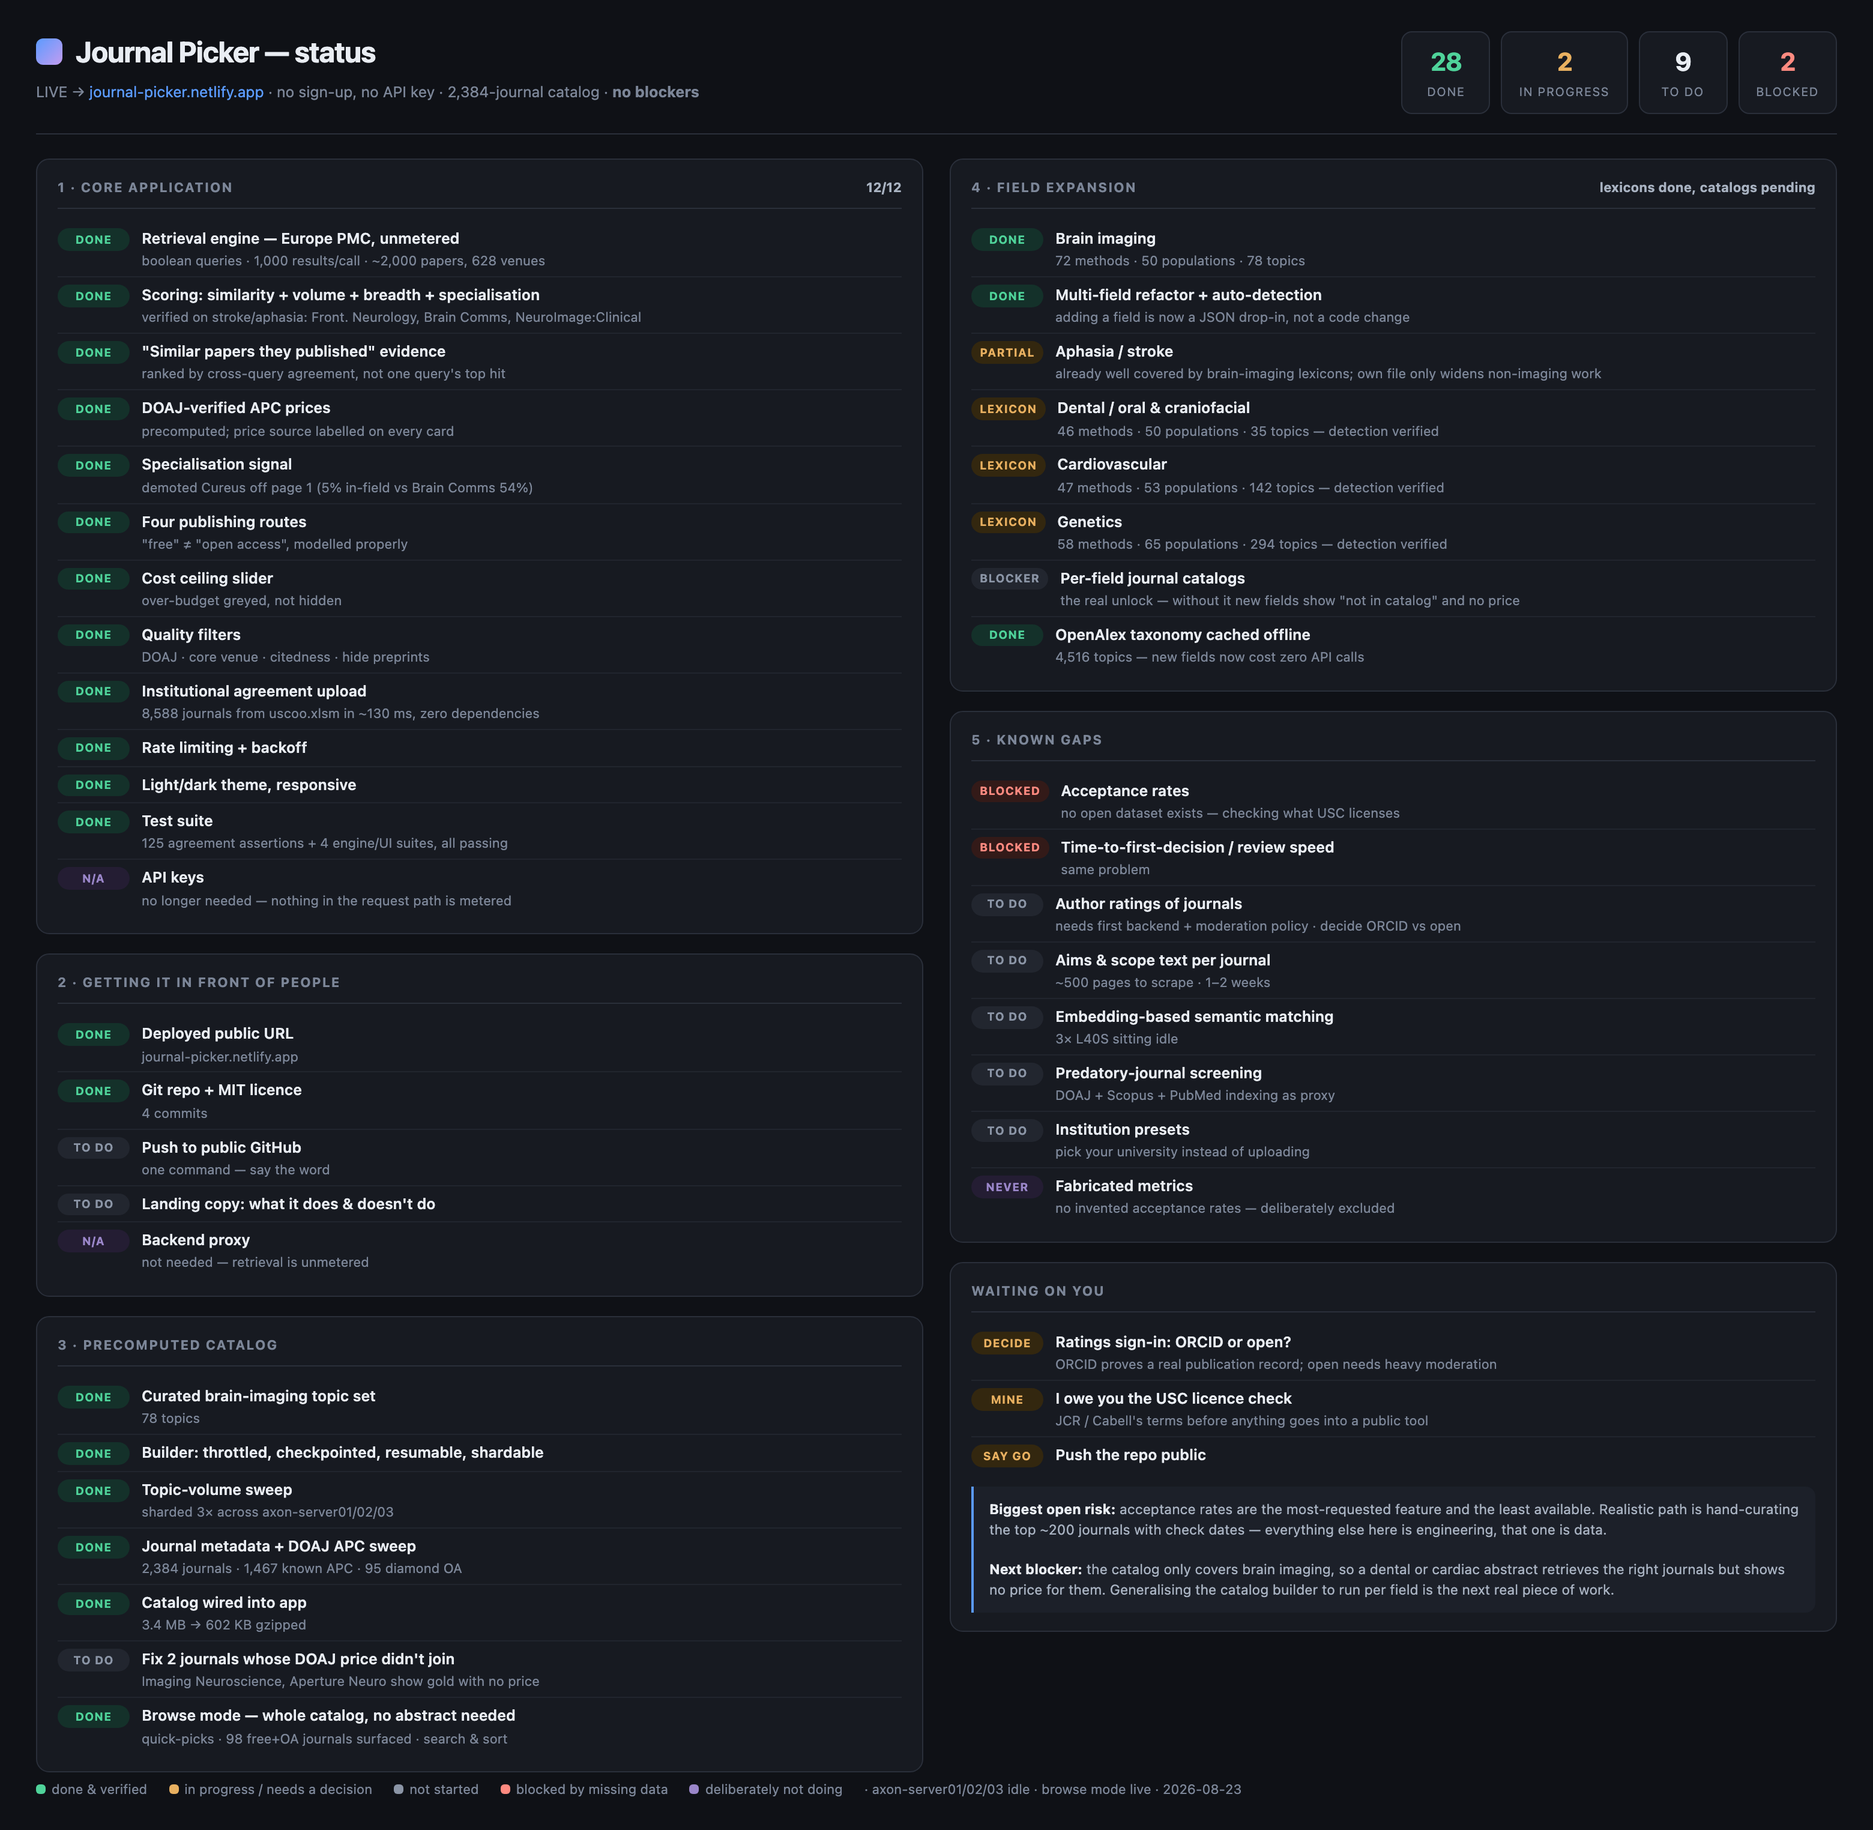
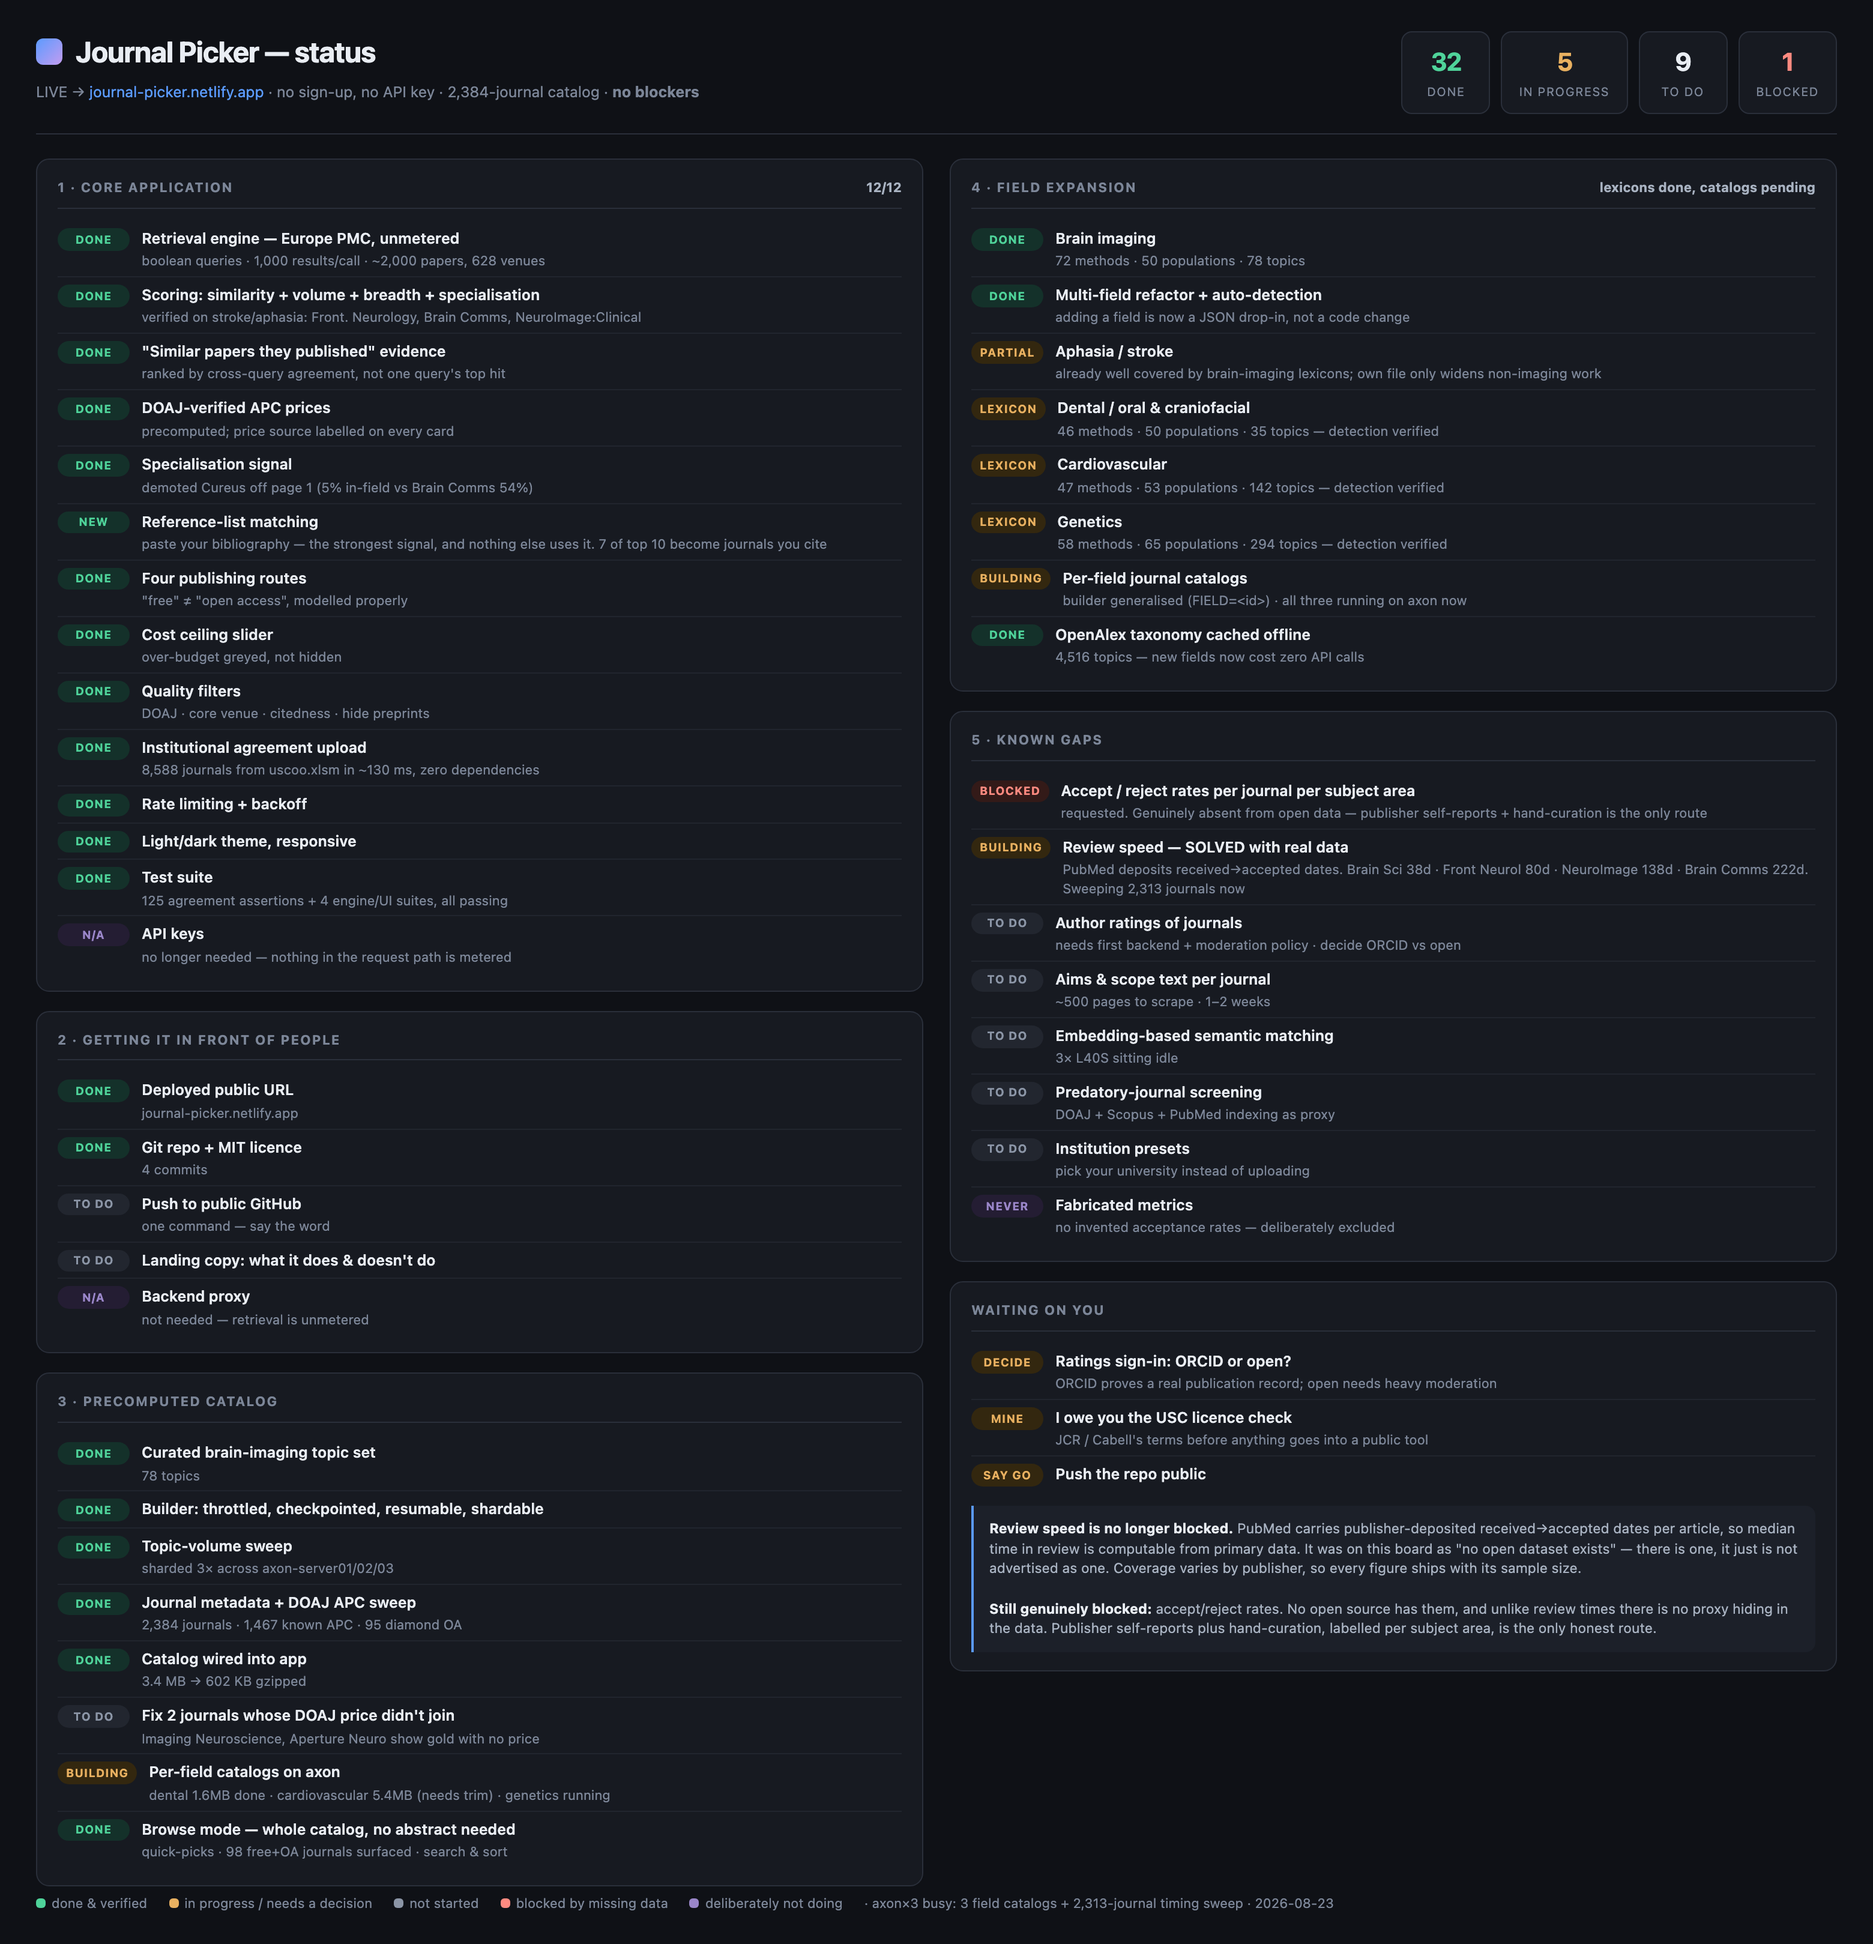
Refresh status grid

diff --git a/status/grid.html b/status/grid.html
@@ -44,10 +44,10 @@ h1{font-size:24px;letter-spacing:-.02em;display:flex;align-items:center;gap:11px
   <div class="sub">LIVE → <a>journal-picker.netlify.app</a> · no sign-up, no API key · 2,384-journal catalog · <b>no blockers</b></div>
  </div>
  <div class="tally">
-  <div class="t ok"><b>28</b><span>done</span></div>
-  <div class="t wip"><b>2</b><span>in progress</span></div>
+  <div class="t ok"><b>32</b><span>done</span></div>
+  <div class="t wip"><b>5</b><span>in progress</span></div>
   <div class="t"><b>9</b><span>to do</span></div>
-  <div class="t blk"><b>2</b><span>blocked</span></div>
+  <div class="t blk"><b>1</b><span>blocked</span></div>
  </div>
 </div>
 
@@ -59,6 +59,7 @@ h1{font-size:24px;letter-spacing:-.02em;display:flex;align-items:center;gap:11px
 <div class="row"><span class="pill p-ok">done</span><div class="txt"><b>"Similar papers they published" evidence</b><i>ranked by cross-query agreement, not one query's top hit</i></div></div>
 <div class="row"><span class="pill p-ok">done</span><div class="txt"><b>DOAJ-verified APC prices</b><i>precomputed; price source labelled on every card</i></div></div>
 <div class="row"><span class="pill p-ok">done</span><div class="txt"><b>Specialisation signal</b><i>demoted Cureus off page 1 (5% in-field vs Brain Comms 54%)</i></div></div>
+<div class="row"><span class="pill p-ok">NEW</span><div class="txt"><b>Reference-list matching</b><i>paste your bibliography — the strongest signal, and nothing else uses it. 7 of top 10 become journals you cite</i></div></div>
 <div class="row"><span class="pill p-ok">done</span><div class="txt"><b>Four publishing routes</b><i>"free" ≠ "open access", modelled properly</i></div></div>
 <div class="row"><span class="pill p-ok">done</span><div class="txt"><b>Cost ceiling slider</b><i>over-budget greyed, not hidden</i></div></div>
 <div class="row"><span class="pill p-ok">done</span><div class="txt"><b>Quality filters</b><i>DOAJ · core venue · citedness · hide preprints</i></div></div>
@@ -84,6 +85,7 @@ h1{font-size:24px;letter-spacing:-.02em;display:flex;align-items:center;gap:11px
 <div class="row"><span class="pill p-ok">done</span><div class="txt"><b>Journal metadata + DOAJ APC sweep</b><i>2,384 journals · 1,467 known APC · 95 diamond OA</i></div></div>
 <div class="row"><span class="pill p-ok">done</span><div class="txt"><b>Catalog wired into app</b><i>3.4 MB → 602 KB gzipped</i></div></div>
 <div class="row"><span class="pill p-todo">to do</span><div class="txt"><b>Fix 2 journals whose DOAJ price didn't join</b><i>Imaging Neuroscience, Aperture Neuro show gold with no price</i></div></div>
+<div class="row"><span class="pill p-wip">building</span><div class="txt"><b>Per-field catalogs on axon</b><i>dental 1.6MB done · cardiovascular 5.4MB (needs trim) · genetics running</i></div></div>
 <div class="row"><span class="pill p-ok">done</span><div class="txt"><b>Browse mode — whole catalog, no abstract needed</b><i>quick-picks · 98 free+OA journals surfaced · search &amp; sort</i></div></div>
 </div>
 
@@ -94,13 +96,13 @@ h1{font-size:24px;letter-spacing:-.02em;display:flex;align-items:center;gap:11px
 <div class="row"><span class="pill p-wip">lexicon</span><div class="txt"><b>Dental / oral &amp; craniofacial</b><i>46 methods · 50 populations · 35 topics — detection verified</i></div></div>
 <div class="row"><span class="pill p-wip">lexicon</span><div class="txt"><b>Cardiovascular</b><i>47 methods · 53 populations · 142 topics — detection verified</i></div></div>
 <div class="row"><span class="pill p-wip">lexicon</span><div class="txt"><b>Genetics</b><i>58 methods · 65 populations · 294 topics — detection verified</i></div></div>
-<div class="row"><span class="pill p-todo">blocker</span><div class="txt"><b>Per-field journal catalogs</b><i>the real unlock — without it new fields show "not in catalog" and no price</i></div></div>
+<div class="row"><span class="pill p-wip">building</span><div class="txt"><b>Per-field journal catalogs</b><i>builder generalised (FIELD=&lt;id&gt;) · all three running on axon now</i></div></div>
 <div class="row"><span class="pill p-ok">done</span><div class="txt"><b>OpenAlex taxonomy cached offline</b><i>4,516 topics — new fields now cost zero API calls</i></div></div>
 </div>
 
 <div class="sec"><h2>5 · Known gaps</h2>
-<div class="row"><span class="pill p-blk">blocked</span><div class="txt"><b>Acceptance rates</b><i>no open dataset exists — checking what USC licenses</i></div></div>
-<div class="row"><span class="pill p-blk">blocked</span><div class="txt"><b>Time-to-first-decision / review speed</b><i>same problem</i></div></div>
+<div class="row"><span class="pill p-blk">blocked</span><div class="txt"><b>Accept / reject rates per journal per subject area</b><i>requested. Genuinely absent from open data — publisher self-reports + hand-curation is the only route</i></div></div>
+<div class="row"><span class="pill p-wip">building</span><div class="txt"><b>Review speed — SOLVED with real data</b><i>PubMed deposits received→accepted dates. Brain Sci 38d · Front Neurol 80d · NeuroImage 138d · Brain Comms 222d. Sweeping 2,313 journals now</i></div></div>
 <div class="row"><span class="pill p-todo">to do</span><div class="txt"><b>Author ratings of journals</b><i>needs first backend + moderation policy · decide ORCID vs open</i></div></div>
 <div class="row"><span class="pill p-todo">to do</span><div class="txt"><b>Aims &amp; scope text per journal</b><i>~500 pages to scrape · 1–2 weeks</i></div></div>
 <div class="row"><span class="pill p-todo">to do</span><div class="txt"><b>Embedding-based semantic matching</b><i>3× L40S sitting idle</i></div></div>
@@ -113,7 +115,7 @@ h1{font-size:24px;letter-spacing:-.02em;display:flex;align-items:center;gap:11px
 <div class="row"><span class="pill p-wip">decide</span><div class="txt"><b>Ratings sign-in: ORCID or open?</b><i>ORCID proves a real publication record; open needs heavy moderation</i></div></div>
 <div class="row"><span class="pill p-wip">mine</span><div class="txt"><b>I owe you the USC licence check</b><i>JCR / Cabell's terms before anything goes into a public tool</i></div></div>
 <div class="row"><span class="pill p-wip">say go</span><div class="txt"><b>Push the repo public</b></div></div>
-<div class="note"><b>Biggest open risk:</b> acceptance rates are the most-requested feature and the least available. Realistic path is hand-curating the top ~200 journals with check dates — everything else here is engineering, that one is data.<br><br><b>Next blocker:</b> the catalog only covers brain imaging, so a dental or cardiac abstract retrieves the right journals but shows no price for them. Generalising the catalog builder to run per field is the next real piece of work.</div>
+<div class="note"><b>Review speed is no longer blocked.</b> PubMed carries publisher-deposited received→accepted dates per article, so median time in review is computable from primary data. It was on this board as "no open dataset exists" — there is one, it just is not advertised as one. Coverage varies by publisher, so every figure ships with its sample size.<br><br><b>Still genuinely blocked:</b> accept/reject rates. No open source has them, and unlike review times there is no proxy hiding in the data. Publisher self-reports plus hand-curation, labelled per subject area, is the only honest route.</div>
 </div>
 
 </div>
@@ -124,6 +126,6 @@ h1{font-size:24px;letter-spacing:-.02em;display:flex;align-items:center;gap:11px
  <span class="k"><i class="dot" style="background:#8b95a6"></i>not started</span>
  <span class="k"><i class="dot" style="background:#ff8a80"></i>blocked by missing data</span>
  <span class="k"><i class="dot" style="background:#9a86c9"></i>deliberately not doing</span>
- <span>· axon-server01/02/03 idle · browse mode live · 2026-08-23</span>
+ <span>· axon×3 busy: 3 field catalogs + 2,313-journal timing sweep · 2026-08-23</span>
 </div>
 </body></html>
